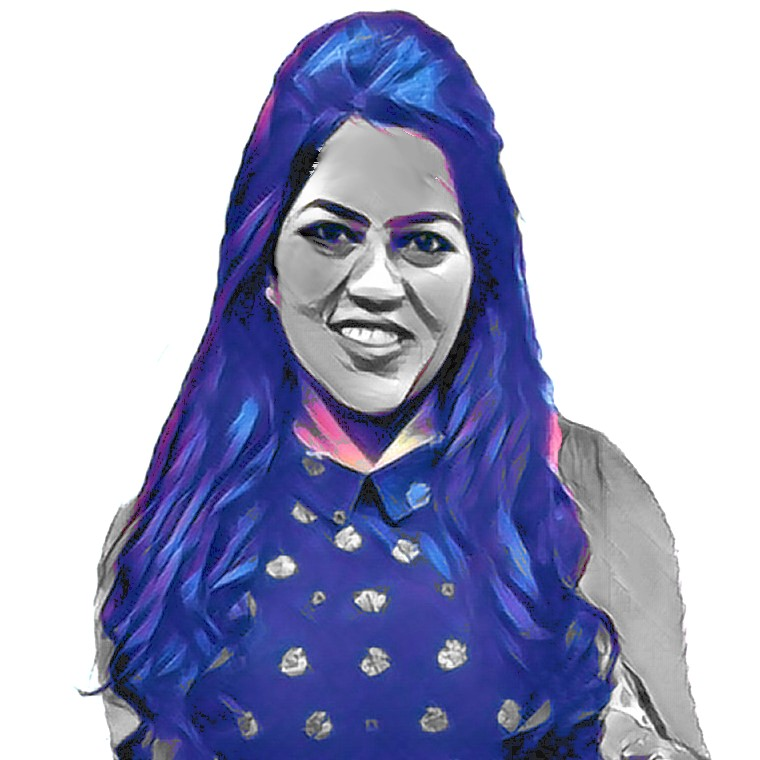
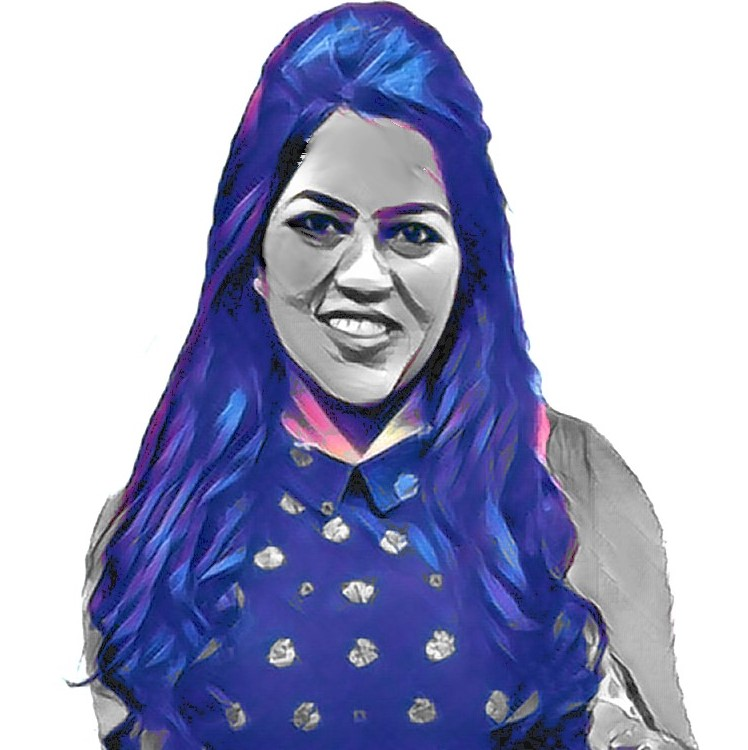
Added contact

diff --git a/index.html b/index.html
@@ -12,6 +12,10 @@
 
     <!-- Bootstrap -->
     <link href="r/bootstrap/css/bootstrap.min.css" rel="stylesheet">
+    
+    <!--  Icons    -->
+    <link rel="stylesheet" href="https://cdnjs.cloudflare.com/ajax/libs/simple-line-icons/2.4.1/css/simple-line-icons.css">
+    <script src="https://use.fontawesome.com/dbec6e8c99.js"></script>
 
     <!-- custom css -->
     <link href="css/custom.css" rel="stylesheet">
@@ -27,7 +31,6 @@
   <body>
       
     <!-- Navigation -->
-    <nav class="navbar navbar-expand-lg navbar-expand-md navbar-light bg-white">
     <nav class="navbar navbar-expand-lg navbar-light bg-white fixed-top">
       <div class="container">
         <a class="navbar-brand" href="/"><img class="img-fluid" style="max-width:50px" src="img/logo.png" alt=""></a>
@@ -39,13 +42,18 @@
             <li class="nav-item active">
               <a class="nav-link" href="/">Home</a>
             </li>
+<!--
             <li class="nav-item">
               <a class="nav-link" href="about.html">About
                   <span class="sr-only">(current)</span>
               </a>
             </li>
+-->
             <li class="nav-item">
               <a class="nav-link" href="#projects">Projects</a>
+            </li>
+            <li class="nav-item">
+              <a class="nav-link" href="#contact">Contact</a>
             </li>
             <li class="nav-item">
               <a class="nav-link" href="/downloadables/Janet_Johnson_CV.pdf" target="_blank">CV</a>
@@ -55,23 +63,28 @@
       </div>
     </nav>
 
-    </nav>
-
     <!-- Main Banner -->  
     <section id="banner">
       <div class="container">
         <div class="row align-items-center">
-          <div class="col-md-6" style="padding-right: 0px">
-            <div style="padding-top: 30px;">
-              <img class="img-fluid" src="img/me1.jpg" alt="" style="max-height: 450px">
+          <div class="col-md-5" style="padding-right: 0px">
+              
+            <div style="padding-top: 20px;">
+              <img class="img-fluid" src="img/me1.jpg" alt="" style="max-height: 600px">
             </div>
+              
           </div>
-          <div class="col-md-6" style=" padding:0px">
+            
+          <div class="col-md-7" style="padding:10px 0px 0px 0px">
             <div class="p-2" style="text-align:center;">
+                
               <h2 class="display-3">Janet Johnson</h2>
-              <p>I'm a <strong>UX Researcher</strong> pursuing a Master's degree in Computer Science at UC San Diego. My research interests include <strong>inclusive design</strong>, and <strong>mixed reality</strong> and it's applications in healthcare.</p>
-              <p>I am currently advised by Dr. Nadir Weibel at <a href="https://ubicomp.ucsd.edu/">Weibel Lab</a>.</p>
-              <a href="/downloadables/Janet_Johnson_CV.pdf" download>
+                
+              <p style="text-align:justify; padding-top: 10px;">I'm an <strong>HCI Researcher</strong> pursuing a Master's degree in Computer Science at UC San Diego. My research interests include <strong>inclusive design</strong>, and <strong>mixed reality</strong> and its applications in healthcare.</p>
+                
+              <p class="text-dark" style="text-align:justify;">I'm currently advised by <a target="_blank" href="https://ubicomp.ucsd.edu/people/weibel/">Dr. Nadir Weibel</a> and am associated with both <a target="_blank" href="https://ubicomp.ucsd.edu/">Weibel Lab</a> and the <a target="_blank" href="http://designlab.ucsd.edu/">Design Lab</a>.</p>
+                
+              <a href="/downloadables/Janet_Johnson_CV.pdf" download style="padding-bottom: 10px">
                 <button type="button" class="btn btn-secondary">Download CV</button>
               </a>
             </div>
@@ -82,7 +95,7 @@
 
       
     <!-- projects -->
-    <section class="bg-light" id="projects" name="projects">
+    <section class="bg-light anchorsection" id="projects" name="projects">
         
       <div class="container">
           
@@ -93,20 +106,20 @@
         </div>
         
         <div class = "row row-fluid filter justify-content-center text-center text-secondary filterdivide">
-            <div class = "col-lg-2 col-md-3 col-sm-3">
+            <div class = "col-lg-2 col-md-2 col-sm-3">
                 <a href="#" data-filter="*" class="active">All</a>
             </div>
-            <div class = "col-lg-2 col-md-3 col-sm-3">
+            <div class = "col-lg-2 col-md-2 col-sm-3">
                 <a href="#" data-filter=".current" >Ongoing</a>
             </div>
-            <div class = "col-lg-2 col-md-3 col-sm-3">
+            <div class = "col-lg-2 col-md-2 col-sm-3">
                 <a href="#" data-filter=".mr">Mixed Reality</a>
             </div>
-            <div class = "col-lg-2 col-md-3 col-sm-3">
+            <div class = "col-lg-2 col-md-2 col-sm-3">
                 <a href="#" data-filter=".health">Health</a>
             </div>
-            <div class = "col-lg-2 col-md-3 col-sm-3">
-                <a href="#" data-filter=".health">Health</a>
+            <div class = "col-lg-2 col-md-2 col-sm-3">
+                <a href="#" data-filter=".web">Web UX</a>
             </div>
         </div>
           
@@ -212,13 +225,47 @@
         </div>
       </div>
     </section>
+      
+      
+    <!-- Contact -->  
+    <section id="contact" class="">
+      <div class="container">
+          
+        <div class="row align-items-center">
+          <div class="col-lg-12 text-center">
+            <h2 class="display-4 sectiontitle">Get In Touch</h2>
+            <p></p>
+          </div>
+        </div>
+          
+        <div class="row align-items-center justify-content-center">
+          <div class="col-md-1 col-sm-2" style="padding:10px 0px 0px 0px; text-align: center">
+              <p id="social">
+                  <a href="mailto:jgj007@eng.ucsd.edu"> <i class="fa fa-envelope fa-lg"></i></a>
+              </p>
+          </div>
+            
+          <div class="col-md-1 col-sm-2" style="padding:10px 0px 0px 0px; text-align: center">
+              <p id="social">
+                  <a target="_blank" href="https://www.linkedin.com/in/janet-johnson/"> <i class="fa fa-linkedin fa-2x"></i></a>
+              </p>
+          </div>
+          
+          <div class="col-md-1 col-sm-2" style="padding:10px 0px 0px 0px; text-align: center">
+              <p id="social">
+                  <a target="_blank" href="https://github.com/jgjo/"> <i class="fa fa-github fa-2x"></i></a>
+              </p>
+          </div>
+        </div>
+      </div>
+    </section>
 
 
 
     <!-- Footer -->
     <footer class="py-3 bg-white">
       <div class="container">
-        <p class="m-0 text-center text-secondary">&copy; JanetJohnson</p>
+        <p class="m-0 text-center text-secondary">JanetJohnson</p>
       </div>
     </footer>
 

diff --git a/css/custom.css b/css/custom.css
@@ -23,6 +23,13 @@ body {
     text-decoration: underline;
 }
 
+#social a {
+    text-decoration: none;
+    color: black;
+/*    font-size: 35px;*/
+    
+}
+
 
 /*GENERIC SECTION*/
 
@@ -31,6 +38,10 @@ body {
     font-size: 2rem;
     padding-top: 40px;
     padding-bottom: 5px;
+}
+
+.anchorsection {
+    padding-top: 45px;
 }
 
 /*PROJECTS CSS*/
@@ -96,6 +107,7 @@ body {
     justify-content: right;
     text-align: center;
     padding-top: 25px;
+    padding-bottom: 15px;
 }
 
 .filter a{

diff --git a/r/js/main.js b/r/js/main.js
@@ -1,7 +1,10 @@
 function main() {
-
 (function () {
    'use strict';
+//    
+//    $('html,body').animate({
+//      scrollTop: $(window.location.hash).offset().top
+//    });
 
 //    Portfolio Isotope Filter
     $(window).load(function() {
